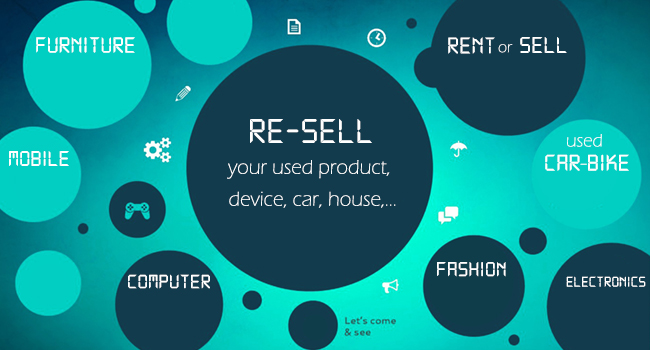
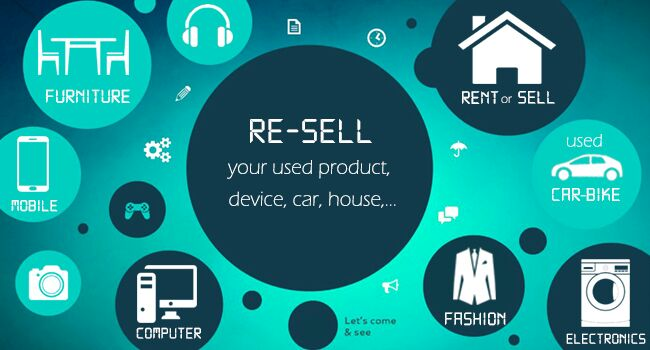
VSA

diff --git a/public/header.php b/public/header.php
@@ -48,6 +48,11 @@
 						</div>-->
 					</div>
 					<div class="col-sm-5">
+            <div class='item'>
+                <div class='col-sm-12'> 
+                  <a href="win.php"><img src='assets/images/pub/sixth.jpg' style='width:100%;' class='girl img-responsive' alt='' /></a>
+                </div>
+            </div>
            <!-- <div class="col-sm-12">
            <a href='win.php'> <img src="assets/images/pub/thirdwin.jpg" class="col-sm-12" style="height:80px;" /></a>
             </div>
